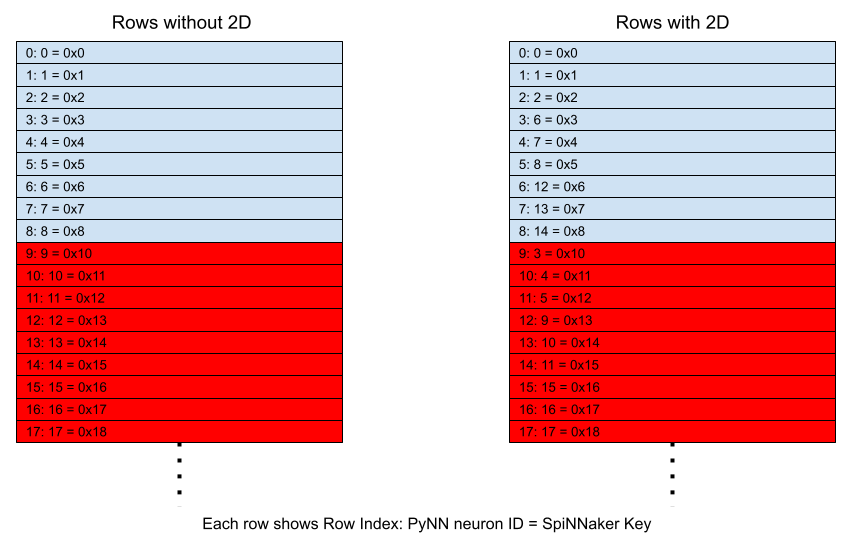
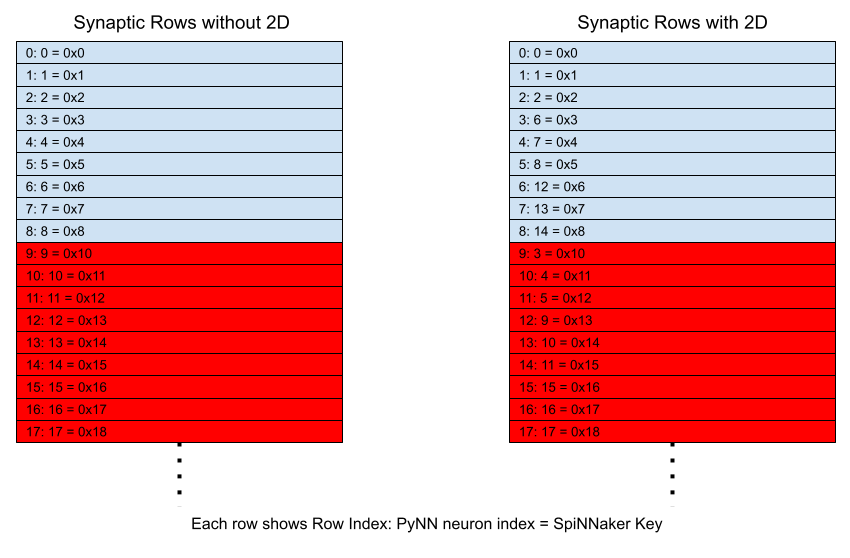
Update text and images for consistency

Changed region(s): [[0.2141, 0.914, 0.7953, 0.9749], [0.6729, 0.0305, 0.9176, 0.0609], [0.0918, 0.0305, 0.3365, 0.0609]]

diff --git a/interdimensional_compatibility.md b/interdimensional_compatibility.md
@@ -1,7 +1,81 @@
 Interdimensional Compatibility
 ==============================
 
-The software has been enhanced to support multi-dimensional vertices, and the
+Terminology
+-----------
+The following terms and "variable names" (i.e. the names of variables in
+pseudocode examples) are used in this document.  Note these are written as
+variable names here with underscores in the names, but might also appear without
+the undescore in text.
+
+`PyNN`: Python Neural Network API.  See
+[https://neuralensemble.org/PyNN/](https://neuralensemble.org/PyNN/).
+
+`Population`: A group of neurons, as defined by PyNN.
+
+`Projection`: A sender-receiver relationship of spikes between Populations,
+as defined in PyNN.
+
+`source_population`: The sender of spikes; the pre-Population of a Projection.
+
+`target_population`: The receiver of spikes; the post-Population of a
+Projection.
+
+`pynn_neuron_index`: The index of the neuron within a Population.  This
+is always a single index even when the Population has multiple dimensions.
+
+`n_dimensions`: The number of dimensions of a Population e.g. 2 = 2D.
+
+`full_size[n]`: The full size of a Population in the n'th dimension e.g. a
+2D Population with width 3 and height 4 will have `full_size[0] = 3` and
+`full_size[1] = 4`.
+
+`neuron_pos[n]`: The global position of the neuron in the Population in the
+n'th dimension e.g. a neuron at position (1, 2) in a 2D Population will have
+`neuron_pos[0] = 1` and `neuron_pos[1] = 2`.
+
+`neurons_per_core`: The total number of neurons per SpiNNaker core.
+
+`neurons_per_core[n]`: The number of neurons per SpiNNaker core in the n'th
+dimension.
+
+`cores_per_size[n]`: The number of cores of the Population in the n'th
+dimension; this is a shorthand for `full_size[n] / neurons_per_core[n]`
+(which must be an integer value by design).
+
+`core_index`: The index of a core in a list of all cores; for multi-dimensional
+Populations, this is a raster scan of the cores.
+
+`core_index[n]`: The core index in the n'th dimension.
+
+`neuron_index`: The index of the neuron in a list of all neurons on a core; for
+multi-dimensional vertices, this is generally a raster scan of the cores.
+
+`neuron_index[n]`: The local neuron index in the n'th dimension.
+
+`key`: The SpiNNaker routing key used to send a spike to other cores and
+received from other cores.  The key is determined by the source Population and
+is unique for each neuron.
+
+`population_key`: The part of a key that is shared by all keys for a
+Population (see below for more details).  This is unique to a Population.
+
+`pop_info`: A receiver of spikes stores a table of Population information for
+each of the source Populations against the population key.  This includes things
+like the neurons per core, the position of the population key, the position and
+size of the core index in the key and the position and size of the neuron index
+in the key (see below).
+
+`synaptic_row`: A row listing the target neuron indexes on a core of a target
+Population, with a row for each source PyNN neuron index.
+
+`row_index`: The index of a synaptic row in the list of all synaptic rows as it
+appears on a core of a target Population.  Note that the row index may not be
+the same as the source PyNN neuron index (see later for details).
+
+Introduction
+------------
+The software has been enhanced to support multi-dimensional Populations, and the
 communication between these vertices which might have different dimensionality.
 The order of the neurons in a Population with more than one dimension have been
 chosen to be a [Raster Scan](https://en.wikipedia.org/wiki/Raster_scan) of the
@@ -24,7 +98,7 @@ core, a 30 neuron Population will be divided into 3 cores made up of neurons
 (0-9), (10-19) and (20-29), where a 25 neuron Population will be divided into 3
 cores also but made up of neurons (0-9), (10-19) and (20-24), so there will only
 be 5 neurons on the last core.  By default, the number of neurons per core is
-256.
+256 for a neuron Population.
 
 When a multi-dimensional Population is split over multiple cores, it will
 generally be split into hyper-rectangles i.e. n-dimensional rectangles, where
@@ -33,15 +107,16 @@ here is that each dimension must be exactly divisible by the number of neurons
 per core in that dimension.  For example, a Population with size (10, 10) in 2
 dimensions (so having 100 neurons) can be split into (5, 5) neurons per core
 made up of rectangles (in this case squares) of neurons (0,0 - 5,5),
-(0,6 - 5,10), (6,0 - 10,5) and (6,6 - 10,10).  Another example is shown in the
-image.
+(0,6 - 5,10), (6,0 - 10,5) and (6,6 - 10,10).  It is not possible to split this
+same Population into (3, 3) neurons per core.  Another example is shown in the
+image below.
 
 ![2D Neurons And Keys as described in the preceeding text](2DNeuronsAndKeys.png "2D Neurons and Keys")
 
-Population Keys
----------------
-When a neuron in a Population spikes, it sends a key that represents the index
-of the neuron in the Population.  Each Population is given a Population-level
+Spike Keys
+----------
+When a neuron in a Population spikes, it sends a key that is unique for each
+neuron in the Population.  Each Population is given a Population-level
 key, and then each core is given a core index within the Population.  These
 are assigned in bit fields in the overall key so that they can be added
 together, along with the neuron index on the core, to make the full key.
@@ -50,34 +125,29 @@ This is shown below.
 `|Population key|Core index|Neuron index|`
 
 The neuron index is a raster scan of the neurons on the core regardless of the
-dimensionality of the Population, in the same way that the Population neuron
-indices are a raster scan of the neurons of the Population through the
+dimensionality of the Population, in the same way that the PyNN neuron indexes
+are a raster scan of the neurons of the Population through the
 dimensions.  As the key structure is always the same regardless of the
 dimensionality, the Populations can communicate even if their dimensionalities
-do not match.  The trick is then to ensure that the synaptic information is
-organised to perform the correct mapping when the key is received.
+do not match.  The trick is then to ensure that the synaptic rows are
+organised to send the spikes to the correct neuron indexes.
 
 Synaptic Mapping
 ----------------
-When a key is received, the receiving vertex should not have to process it. The
+When a key is received, the receiving core should not have to process it. The
 aim is that the rows are ordered such that the key can be used to say which row
-of the synaptic table to look at by simple calculation.  This makes use of a few
-variables: `core_n` and `core_neuron` can be determined from
-the received key (`core_n` from the `core index` part and `core_neuron` from
-the`neuron index` part.  The `neurons_per_core` can be stored on the core
-using the `population key`, and so can be looked up on key reception.  This is
-shown below.
+index of the synaptic rows to look at by simple calculation.
 
 ```
 pop_info = get_pop_info(key)
-core_n = get_core_n_from_key(key, pop_info)
-core_neuron = get_core_neuron_from_key(key, pop_info)
+core_index = get_core_index_from_key(key, pop_info)
+neuron_index = get_neuron_index_from_key(key, pop_info)
 row_index = (core_n * pop_info.neurons_per_core) + core_neuron
 
-def get_core_n_from_key(key, pop_info):
+def get_core_index_from_key(key, pop_info):
     return (key >> pop_info.core_shift) & pop_info.core_mask
 
-def get_core_neuron_from_key(key, pop_info):
+def get_neuron_index_from_key(key, pop_info):
     return key & pop_info.neuron_mask
 
 def get_pop_info(key):
@@ -86,46 +156,28 @@ def get_pop_info(key):
     return get_pop_info(pop_key)
 ```
 
-When the source and target are 1D Populations, the mapping between the row
-index above and the pyNN neuron index in the pre-Population is simply the
+When the source and target Populations are 1D, the mapping between the row
+index and the pyNN neuron index of the source Population is simply the
 identity. When the source and / or the target are multi-dimensional, the mapping
-is more complicated.  The trick then is to re-order the rows so that row index computed on the receiving core is correct, as shown in the diagram below.
+is more complicated.  The trick then is to re-order the rows so that row index
+computed on the receiving core is correct, as shown in the diagram below.
 
 ![Row mappings in 1D and 2D as described in the preceeding text](RowsIn1DAnd2D.png "Rows in 1D and 2D")
 
-In addition to this, we also have to split the information on each synaptic
-row into the appropriate target cores.  Again, for simple 1D Populations this
-is the identity function.  For an n-dimensional target though, the splitting is
-again more complicated, but again can be calculated so that the final indices
-in the row are those of neurons on the local core with no further calculation
-required when the key is received.  Note that the values generated here are
-generally done per target core, so the calculation can leverage on that a bit
-more.
+In addition to this, we also have to split the neuron indexes on each synaptic
+row into the appropriate target Population cores.  Again, for 1D Populations
+this is the identity function.  For an n-dimensional target though, the
+splitting is again more complicated, but again can be calculated so that the
+final neuron indexes in the synaptic row are those of neurons on the local core
+with no further calculation required when the key is received.  Note that the
+values generated here are generally done per target core, so the calculation can
+leverage on that a bit more.
 
-#### To `row index` from `pre-neuron index`
-`full_size[n]`: The full size of the Population in the n'th dimension
-
-`neurons_per_core[n]`: The number of neurons per core in the n'th dimension
-
-`total_neurons_per_core`: The total number of neurons per core
-
-`cores_per_size[n]`: The number of cores of the Population in the n'th
-dimension; this is a shorthand for `full_size[n] / neurons_per_core[n]`
-(which must be an integer value by design).
-
-`neuron_pos[n]`: The global position of the neuron in the n'th dimension
-
-`core_index[n]`: The core index in the n'th dimension.
-
-`raster_core_index`: The core index after core rasterization.
-
-`neuron_index[n]`: The local neuron index in the n'th dimension.
-
-`raster_neuron_index`: The local neuron index after rasterization.
+#### From `PyNN neuron index` to `row index` for source Population neurons
 
 ```
 # Work out the position of the neuron in each dimension
-remainder = pre_neuron_index
+remainder = pynn_neuron_index
 last_size = 1
 for n in n_dimensions:
     neuron_pos[n] = remainder // last_size
@@ -158,7 +210,7 @@ for n in n_dimensions:
 row_index = (raster_core_index * total_neurons_per_core) + raster_neuron_index
 ```
 
-#### To `local neuron index` from `population neuron index`
+#### From `PyNN neuron index` to `neuron index` for target Population neurons
 
 
 Multidimensional Connectors
